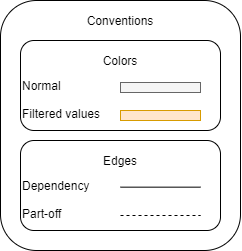
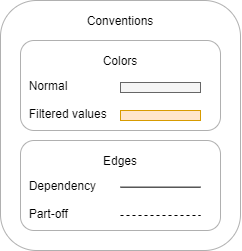
Update layout for convention and showing selected element properties

diff --git a/system_mapper/visualization/dash/visualization.py b/system_mapper/visualization/dash/visualization.py
@@ -353,21 +353,18 @@ class GraphVisualization():
     def setup_callbacks(self):
         """Set-up Dash app callbacks."""
         app = self.app
-        @app.callback(Output('tap-node-json-output' + self.name, 'children'),
-                      [Input('cytoscape' + self.name, 'tapNode')])
-        def display_tap_node(data):
-            if data:
-                return json.dumps(data['data'], indent=2)
-            else:
-                return ''
 
-        @app.callback(Output('tap-edge-json-output' + self.name, 'children'),
-                      [Input('cytoscape' + self.name, 'tapEdge')])
-        def display_tap_edge(data):
-            if data:
-                return json.dumps(data, indent=2)
+        @app.callback(
+            Output('tap-element-json-output' + self.name, 'children'),
+            [Input('cytoscape' + self.name, 'tapNode'),
+             Input('cytoscape' + self.name, 'tapEdge')])
+        def display_tap_element(node_data, edge_data):
+            if node_data:
+                return json.dumps(node_data['data'], indent=2)
+            elif edge_data:
+                return json.dumps(edge_data['data'], indent=2)
             else:
-                return ''
+                return 'Tap a node or edge to see its properties here'
 
         @app.callback(Output('cytoscape' + self.name, 'layout'),
                       [Input('dropdown-layout' + self.name, 'value')])
@@ -615,6 +612,12 @@ class GraphVisualization():
             ]),
 
             html.Div(className='four columns', children=[
+                html.Div(
+                        className='center',
+                        children=[
+                            html.Img(
+                                src='../assets/images/convention.png'
+                                )]),
                 dcc.Tabs(id='tabs' + self.name, children=[
                     dcc.Tab(label='Control Panel', children=[
                         html.Div(
@@ -692,27 +695,16 @@ class GraphVisualization():
                                     name='Custom Query Variables',
                                     id='custom-query-variables' + self.name,
                                     value='',
-                                    placeholder='n, r, m')
-                                ]) if self.expand_enable else '',
-                                html.Div(
-                                    className='center',
-                                    children=[
-                                        html.Img(
-                                            src='../assets/images/convention.png',
-                                            width='50%')])
+                                    placeholder='n, r, m')]
+                            ) if self.expand_enable else ''
                     ]),
-                    dcc.Tab(label='JSON', children=[
+                    dcc.Tab(label='Elements Properties', children=[
                         html.Div(style=STYLES['tab'], children=[
-                            html.P('Node Object JSON:'),
+                            html.P('Element Object JSON:'),
                             html.Pre(
-                                id='tap-node-json-output' + self.name,
+                                id='tap-element-json-output' + self.name,
                                 style=STYLES['json-output']
                             ),
-                            html.P('Edge Object JSON:'),
-                            html.Pre(
-                                id='tap-edge-json-output' + self.name,
-                                style=STYLES['json-output']
-                            )
                         ])
                     ])
                 ]),
